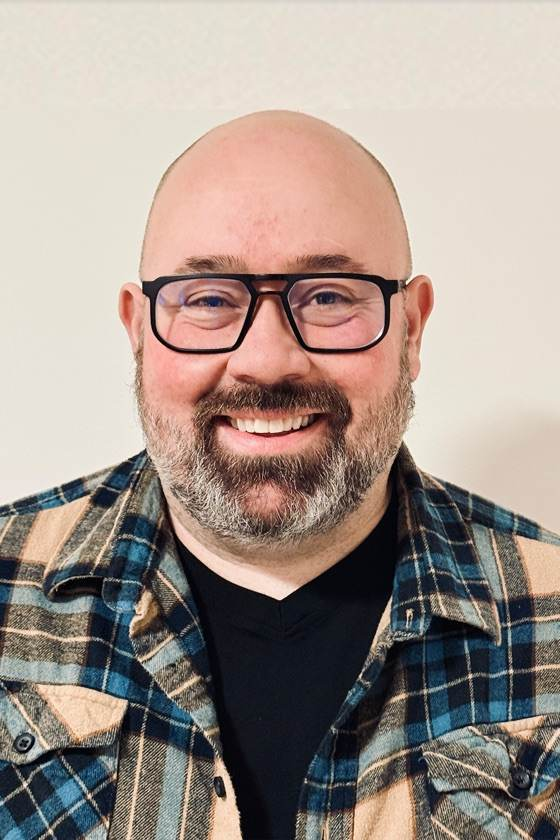
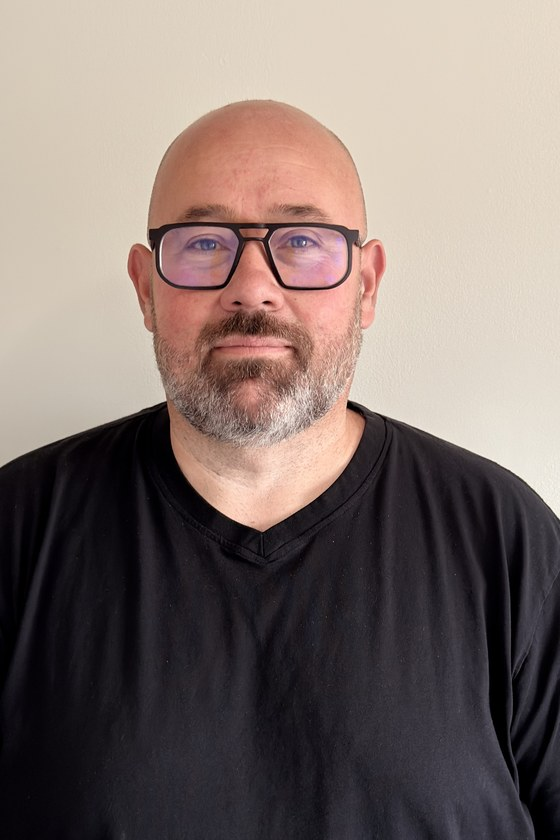
Crew page: add Sydney Bishop and Tom Foulds, new photos for Brad and Anthony
Completes Brad Valair's Aug 17 2026 request. The crew is now the eight he
listed, in his order, with Sydney second because he asked for her directly
beside him.

Photos came from his SharePoint. Brad's and Sydney's originals are
6048x6048; all four are cropped to the 560x840 house format, framed so the
head sits at roughly the same height as the existing shots.

diff --git a/about.html b/about.html
@@ -114,19 +114,19 @@ src="https://www.facebook.com/tr?id=872232952291575&ev=PageView&noscript=1"/></n
   <div class="wrap">
     <p class="kicker">The crew</p>
     <h2>The people who <span class="em">actually turn up</span>.</h2>
-    <p class="lede">Six of them. These are the faces you will see in your driveway, not a stock photo of somebody else's team.</p>
-    <!-- CREW ORDER is Brad Valair's, from his Aug 17 2026 email: Brad, Sydney, Shone,
-         Trayden, Karson, Archie, Anthony, Tom. Sydney Bishop (Controller, sits directly
-         after Brad) and Tom Foulds (Landscape Technician) are NOT here yet because their
-         photos have not been received in a usable form. When they land, insert them at
-         their positions and change the lede count to Eight. -->
+    <p class="lede">Eight of them. These are the faces you will see in your driveway, not a stock photo of somebody else's team.</p>
+    <!-- CREW ORDER is Brad Valair's, from his Aug 17 2026 email. Do not re-sort
+         alphabetically or by role: Sydney sits second because Brad asked for her
+         directly beside him. -->
     <div class="gal gal--crew">
       <figure><img src="img/crew-brad.jpg" width="560" height="840" loading="lazy" alt="Brad Valair, General Manager at Creative Edge Outdoor Living"><figcaption><strong>Brad Valair</strong><br>General Manager</figcaption></figure>
+      <figure><img src="img/crew-sydney.jpg" width="560" height="840" loading="lazy" alt="Sydney Bishop, Controller at Creative Edge Outdoor Living"><figcaption><strong>Sydney Bishop</strong><br>Controller</figcaption></figure>
       <figure><img src="img/crew-shone.jpg" width="560" height="840" loading="lazy" alt="Shone Nelson, Crew Leader at Creative Edge Outdoor Living"><figcaption><strong>Shone Nelson</strong><br>Crew Leader</figcaption></figure>
       <figure><img src="img/crew-trayden.jpg" width="560" height="840" loading="lazy" alt="Trayden Shostak, Landscape Technician at Creative Edge Outdoor Living"><figcaption><strong>Trayden Shostak</strong><br>Landscape Technician</figcaption></figure>
       <figure><img src="img/crew-karson.jpg" width="560" height="840" loading="lazy" alt="Karson Mckenzie, Landscape Technician at Creative Edge Outdoor Living"><figcaption><strong>Karson Mckenzie</strong><br>Landscape Technician</figcaption></figure>
       <figure><img src="img/crew-archie.jpg" width="560" height="840" loading="lazy" alt="Archie Wilks, Landscape Technician at Creative Edge Outdoor Living"><figcaption><strong>Archie Wilks</strong><br>Landscape Technician</figcaption></figure>
       <figure><img src="img/crew-anthony.jpg" width="560" height="840" loading="lazy" alt="Anthony Kennedy, Landscape Technician at Creative Edge Outdoor Living"><figcaption><strong>Anthony Kennedy</strong><br>Landscape Technician</figcaption></figure>
+      <figure><img src="img/crew-tom.jpg" width="560" height="840" loading="lazy" alt="Tom Foulds, Landscape Technician at Creative Edge Outdoor Living"><figcaption><strong>Tom Foulds</strong><br>Landscape Technician</figcaption></figure>
     </div>
   </div>
 </section>

diff --git a/build/content/about.html b/build/content/about.html
@@ -50,19 +50,19 @@
   <div class="wrap">
     <p class="kicker">The crew</p>
     <h2>The people who <span class="em">actually turn up</span>.</h2>
-    <p class="lede">Six of them. These are the faces you will see in your driveway, not a stock photo of somebody else's team.</p>
-    <!-- CREW ORDER is Brad Valair's, from his Aug 17 2026 email: Brad, Sydney, Shone,
-         Trayden, Karson, Archie, Anthony, Tom. Sydney Bishop (Controller, sits directly
-         after Brad) and Tom Foulds (Landscape Technician) are NOT here yet because their
-         photos have not been received in a usable form. When they land, insert them at
-         their positions and change the lede count to Eight. -->
+    <p class="lede">Eight of them. These are the faces you will see in your driveway, not a stock photo of somebody else's team.</p>
+    <!-- CREW ORDER is Brad Valair's, from his Aug 17 2026 email. Do not re-sort
+         alphabetically or by role: Sydney sits second because Brad asked for her
+         directly beside him. -->
     <div class="gal gal--crew">
       <figure><img src="img/crew-brad.jpg" width="560" height="840" loading="lazy" alt="Brad Valair, General Manager at Creative Edge Outdoor Living"><figcaption><strong>Brad Valair</strong><br>General Manager</figcaption></figure>
+      <figure><img src="img/crew-sydney.jpg" width="560" height="840" loading="lazy" alt="Sydney Bishop, Controller at Creative Edge Outdoor Living"><figcaption><strong>Sydney Bishop</strong><br>Controller</figcaption></figure>
       <figure><img src="img/crew-shone.jpg" width="560" height="840" loading="lazy" alt="Shone Nelson, Crew Leader at Creative Edge Outdoor Living"><figcaption><strong>Shone Nelson</strong><br>Crew Leader</figcaption></figure>
       <figure><img src="img/crew-trayden.jpg" width="560" height="840" loading="lazy" alt="Trayden Shostak, Landscape Technician at Creative Edge Outdoor Living"><figcaption><strong>Trayden Shostak</strong><br>Landscape Technician</figcaption></figure>
       <figure><img src="img/crew-karson.jpg" width="560" height="840" loading="lazy" alt="Karson Mckenzie, Landscape Technician at Creative Edge Outdoor Living"><figcaption><strong>Karson Mckenzie</strong><br>Landscape Technician</figcaption></figure>
       <figure><img src="img/crew-archie.jpg" width="560" height="840" loading="lazy" alt="Archie Wilks, Landscape Technician at Creative Edge Outdoor Living"><figcaption><strong>Archie Wilks</strong><br>Landscape Technician</figcaption></figure>
       <figure><img src="img/crew-anthony.jpg" width="560" height="840" loading="lazy" alt="Anthony Kennedy, Landscape Technician at Creative Edge Outdoor Living"><figcaption><strong>Anthony Kennedy</strong><br>Landscape Technician</figcaption></figure>
+      <figure><img src="img/crew-tom.jpg" width="560" height="840" loading="lazy" alt="Tom Foulds, Landscape Technician at Creative Edge Outdoor Living"><figcaption><strong>Tom Foulds</strong><br>Landscape Technician</figcaption></figure>
     </div>
   </div>
 </section>
